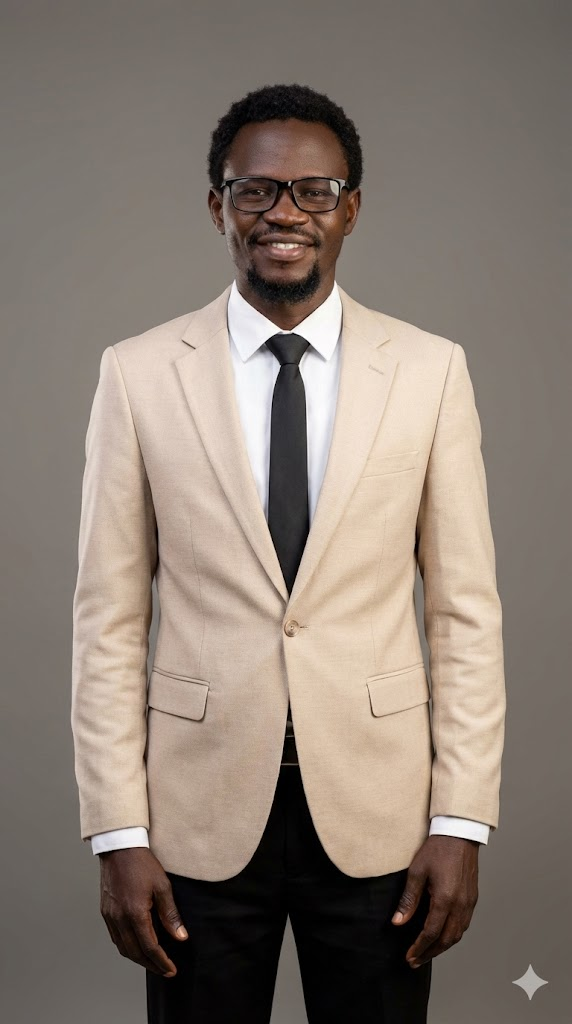
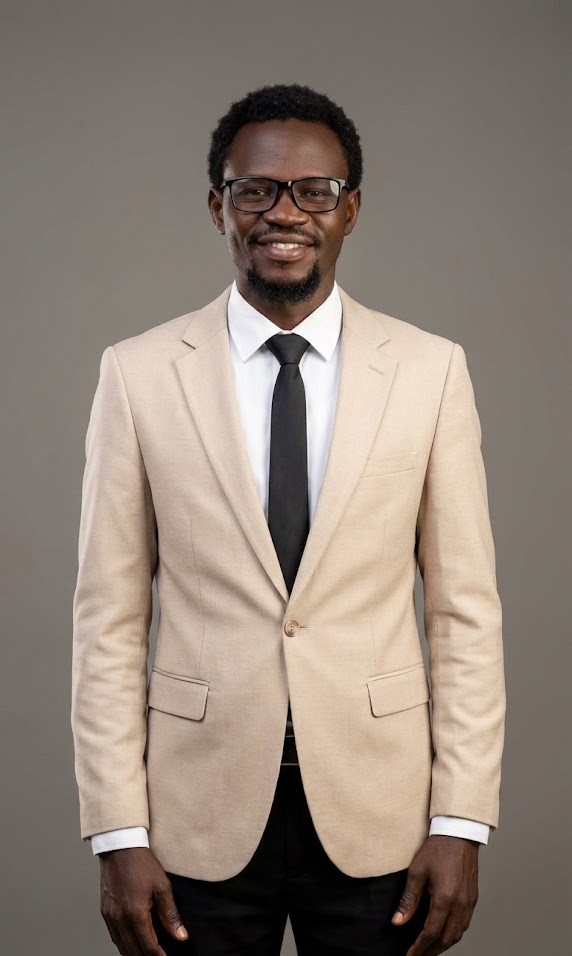
update

diff --git a/index.html b/index.html
@@ -1071,7 +1071,7 @@
             
             <div class="about-container">
                 <div class="about-image">
-                    <img src="Pick/jua.png" alt="Pastor Konlan">
+                    <img src="Pick/jua.jpg" alt="Pastor Konlan">
                 </div>
                 
                 <div class="about-content">
